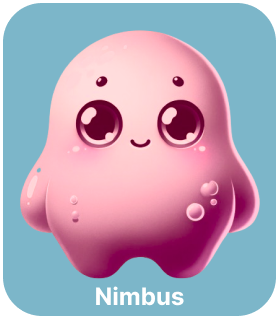
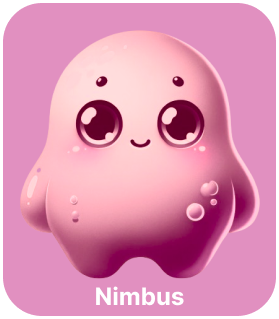
journal screen

diff --git a/mindstorm-app/components/JournalScreen.js b/mindstorm-app/components/JournalScreen.js
@@ -1,0 +1,135 @@
+import React, { useState } from 'react';
+import { StyleSheet, View, Text, TextInput, TouchableOpacity, ScrollView, Image, ImageBackground, Dimensions } from 'react-native';
+import SwitchSelector from "react-native-switch-selector";
+import { Ionicons } from '@expo/vector-icons';
+
+
+const windowWidth = Dimensions.get('window').width;
+const windowHeight = Dimensions.get('window').height;
+
+const options = [
+    { label:  <Ionicons name="text-outline" size={24} color="white" />, value: "keyboard" },  // use 'keyboard' icon here
+    { label:  <Ionicons name="mic-outline" size={24} color="white" />, value: "microphone" }  // use 'microphone' icon here
+];
+
+
+export default function JournalScreen() {
+ 
+   
+
+    return (
+        <View style={styles.container}>
+            <ImageBackground
+                source={require('../assets/background-beach.png')}
+                style={styles.bgImage}
+            >
+                <View style={styles.controls}
+>
+
+        
+                <Text style={styles.heading}>What's troubling you today?</Text>
+                <Text style={styles.subheading}>Speak or type to get your thoughts down!</Text>
+                <SwitchSelector
+                    options={options}
+                    initial={0}
+                    buttonColor={'#4A9BB4'}
+                    selectedColor={'white'} // the text color of the selected option
+                    backgroundColor={'#1F7D9B'}
+                    onPress={value => console.log(`Call function associated with ${value}`)}
+                    style={styles.switchSelector}
+                />
+                </View>
+
+                <TextInput
+                    style={styles.inputTitleText}
+                    placeholder="Title"
+                    placeholderTextColor="grey"
+                />
+                <TextInput
+                    style={styles.inputBodyText}
+                    placeholder="Type here..."
+                    placeholderTextColor="grey"
+                    multiline
+                />
+                <TouchableOpacity style={styles.continueButton}>
+                    <Text style={styles.continueButtonText}>Continue</Text>
+                </TouchableOpacity>
+            
+
+            </ImageBackground>
+        </View>
+    );
+};
+
+const styles = StyleSheet.create({
+    container: {
+        flex: 1,
+        alignItems: 'center',
+        justifyContent: 'center',
+        padding: 24,
+        backgroundColor: 'blue'
+    },
+    controls: {
+        position: 'absolute',
+        top: 0.2 * windowHeight,
+        alignItems: 'center',
+        justifyContent: 'center',
+
+    },
+    bgImage: {
+        width: windowWidth,
+        height: windowHeight * 1.02,
+        alignItems: 'center',
+        justifyContent: 'center',
+    },
+    heading: {
+        fontSize: 24,
+        fontWeight: 'bold',
+        marginBottom: 8,
+        color: 'white',
+        textAlign: 'center',
+    },
+    subheading: {
+        fontSize: 18,
+        color: 'white',
+        textAlign: 'center',
+        marginBottom: 16,
+    },
+   inputTitleText: {
+    fontSize: 24,
+    bottom: 0.12 * windowHeight,
+   },
+   inputBodyText: {
+    fontSize: 18,
+   }
+
+   ,
+    continueButton: {
+        backgroundColor: 'white',
+        borderWidth: 1,
+        borderColor: 'white',
+        borderRadius: 99999,
+        alignItems: 'center',
+        justifyContent: 'center',
+        width: windowWidth * 0.5,
+        height: windowHeight * 0.06,
+        position: 'absolute',
+        alignItems: 'center',
+        alignContent: 'center',
+        bottom: 0.12 * windowHeight,
+
+    },
+  continueButtonText: {
+        fontWeight: 'bold',
+        color: '#4A9BB4',
+        textAlign: 'center',
+    },
+
+    switchSelector: {
+        width: windowWidth * 0.6,
+        height: 40,
+        marginBottom: 20,
+        // Add more styling as per your design
+    },
+});
+

diff --git a/mindstorm-app/components/ChooseBuddy.js b/mindstorm-app/components/ChooseBuddy.js
@@ -15,11 +15,14 @@ export default function ChooseYourBuddy() {
         {
 
             image: require("../assets/lyra.png"),
+            background: require('../assets/background-beach.png'),
+            backgroundColor: '#4A9BB4',
             text: "Word vomit, rant - Lyra has you covered. I can work through your chaos and give you a gentle actionable plan to help you feel better ASAP!",
         },
         {
             image: require("../assets/nimbus.png"),
-
+            background: require('../assets/background-desert.png'),
+            backgroundColor: '#E190C0',
             text: "Stuck in a rut? Need help breaking your tasks into bit-size chunks? Nimbus is here to help!",
         },
         // ... add more buddies as needed
@@ -33,7 +36,10 @@ export default function ChooseYourBuddy() {
                 <TouchableOpacity style={styles.chooseButton}>
                     <Text style={styles.freeWriteButtonText}>Choose</Text>
                 </TouchableOpacity>
-                <View style={styles.descriptionBox}>
+                <View style={[
+                    styles.descriptionBox,
+                    { backgroundColor: carouselItems[activeSlide].backgroundColor }
+                ]}>                    
                     <Text style={styles.descriptionText}>{carouselItems[activeSlide].text}</Text>
                 </View>
             </View>
@@ -43,7 +49,7 @@ export default function ChooseYourBuddy() {
     return (
         <View style={styles.container}>
             <ImageBackground
-                source={require('../assets/background-beach.png')}
+                source={carouselItems[activeSlide].background}
                 style={styles.bgImage}
             // resizeMode="cover"
             >
@@ -131,7 +137,6 @@ const styles = StyleSheet.create({
         // Styles for inactive pagination dot
     },
     descriptionBox: {
-        backgroundColor: '#4A9BB4',
         borderRadius: 5,
         padding: 20,
         margin: 16

diff --git a/mindstorm-app/App.js b/mindstorm-app/App.js
@@ -4,6 +4,7 @@ import { NavigationContainer } from "@react-navigation/native";
 import { createBottomTabNavigator } from '@react-navigation/bottom-tabs';
 import { useState, useEffect } from "react";
 import LandingScreen from './components/LandingScreen';
+import JournalScreen from './components/JournalScreen';
 import { Ionicons } from '@expo/vector-icons';
 import ChooseYourBuddy from './components/ChooseBuddy';
 
@@ -25,16 +26,21 @@ export default function App() {
           tabBarIcon: ({ focused }) => {
             let iconName;
 
-            if (route.name === 'Journal') {
-              iconName = focused ? 'pencil' : 'pencil-outline';
+            if (route.name === 'Chat') {
+              iconName = focused ? 'chatbubbles' : 'chatbubbles-outline';
             } else if (route.name === 'Insights') {
               iconName = focused ? 'analytics' : 'analytics-outline';
+            } 
+            else if (route.name === 'Journal') {
+              iconName = focused ? 'pencil' : 'pencil-outline';
             } 
             return <Ionicons name={iconName} size={24} color="black" />;
           }
         })}>
-        <Tab.Screen name="Journal" options={{headerShown: false}}  component={ChooseYourBuddy} />
+        <Tab.Screen name="Chat" options={{headerShown: false}}  component={ChooseYourBuddy} />
+        <Tab.Screen name="Journal" options={{headerShown: false}} component={JournalScreen} />
         <Tab.Screen name="Insights" options={{headerShown: false}} component={ChooseYourBuddy} />
+
       </Tab.Navigator>
      
   </NavigationContainer>
